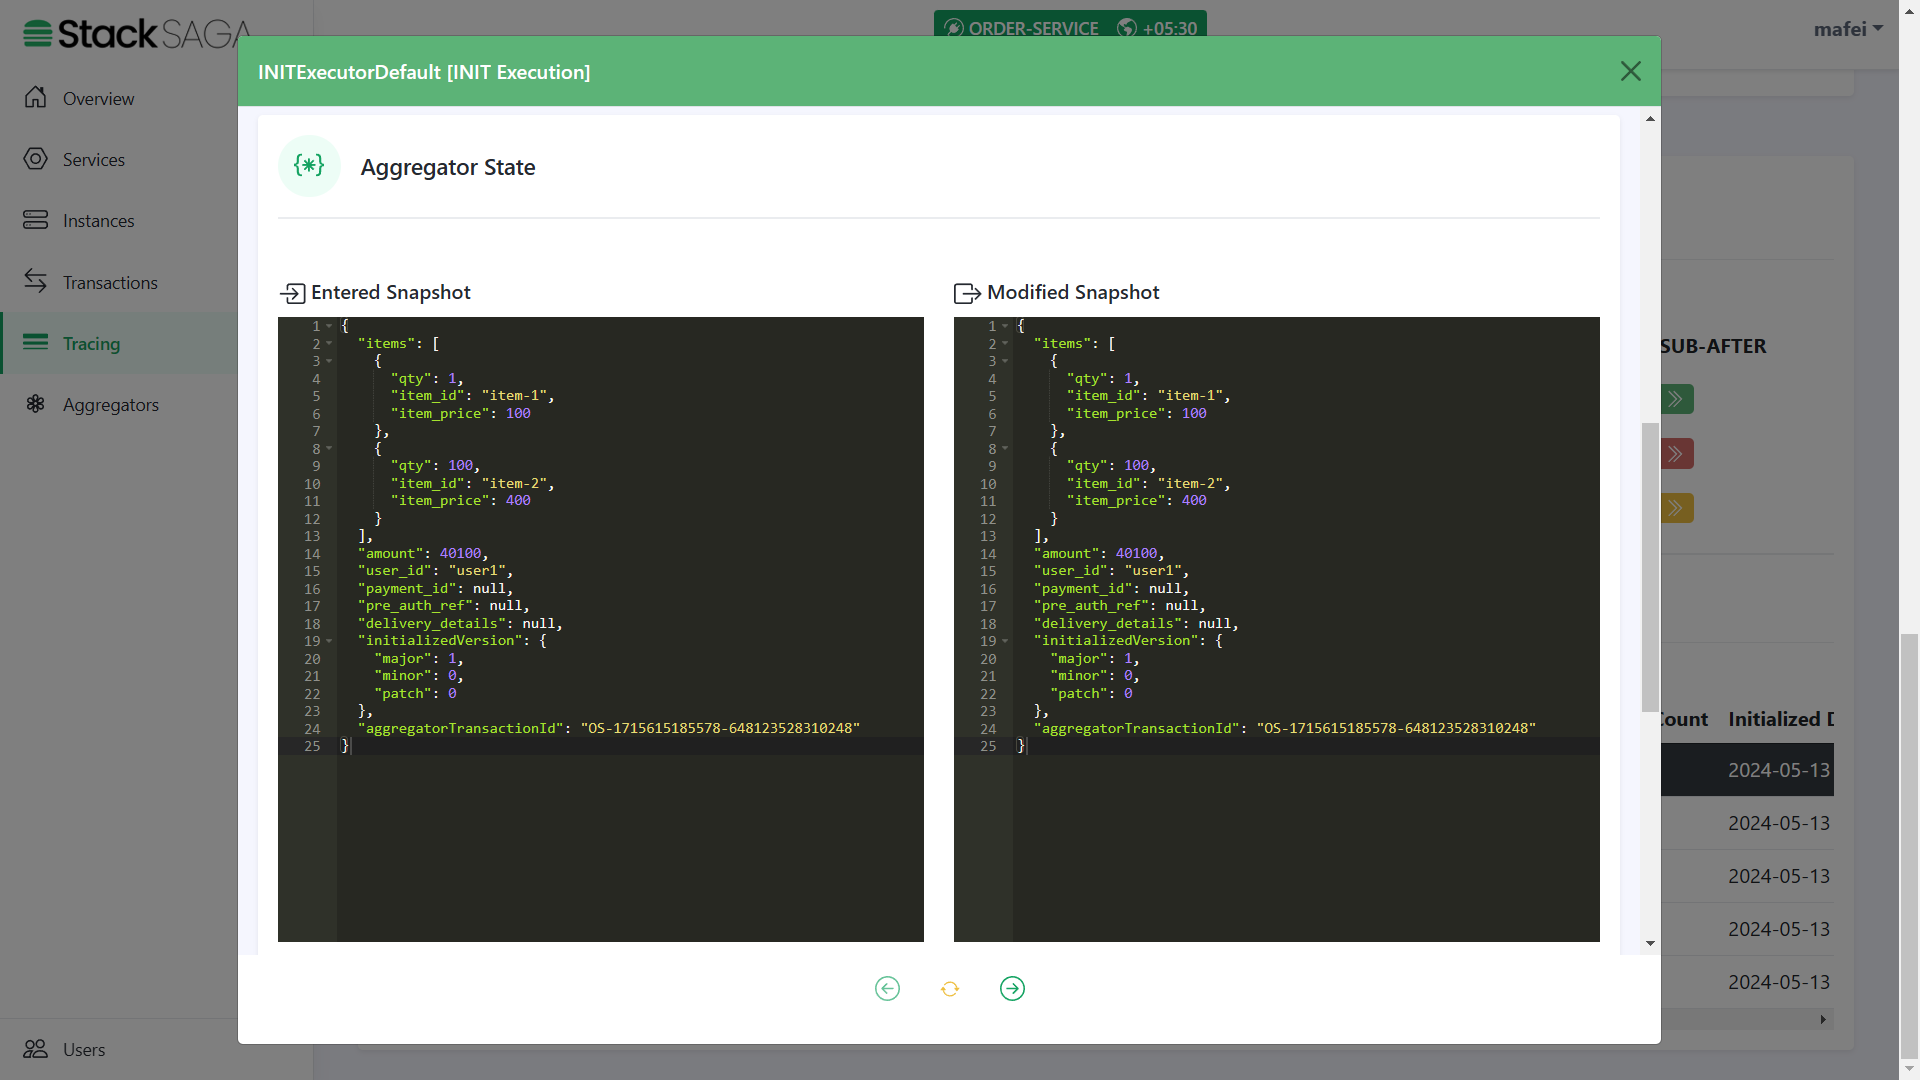
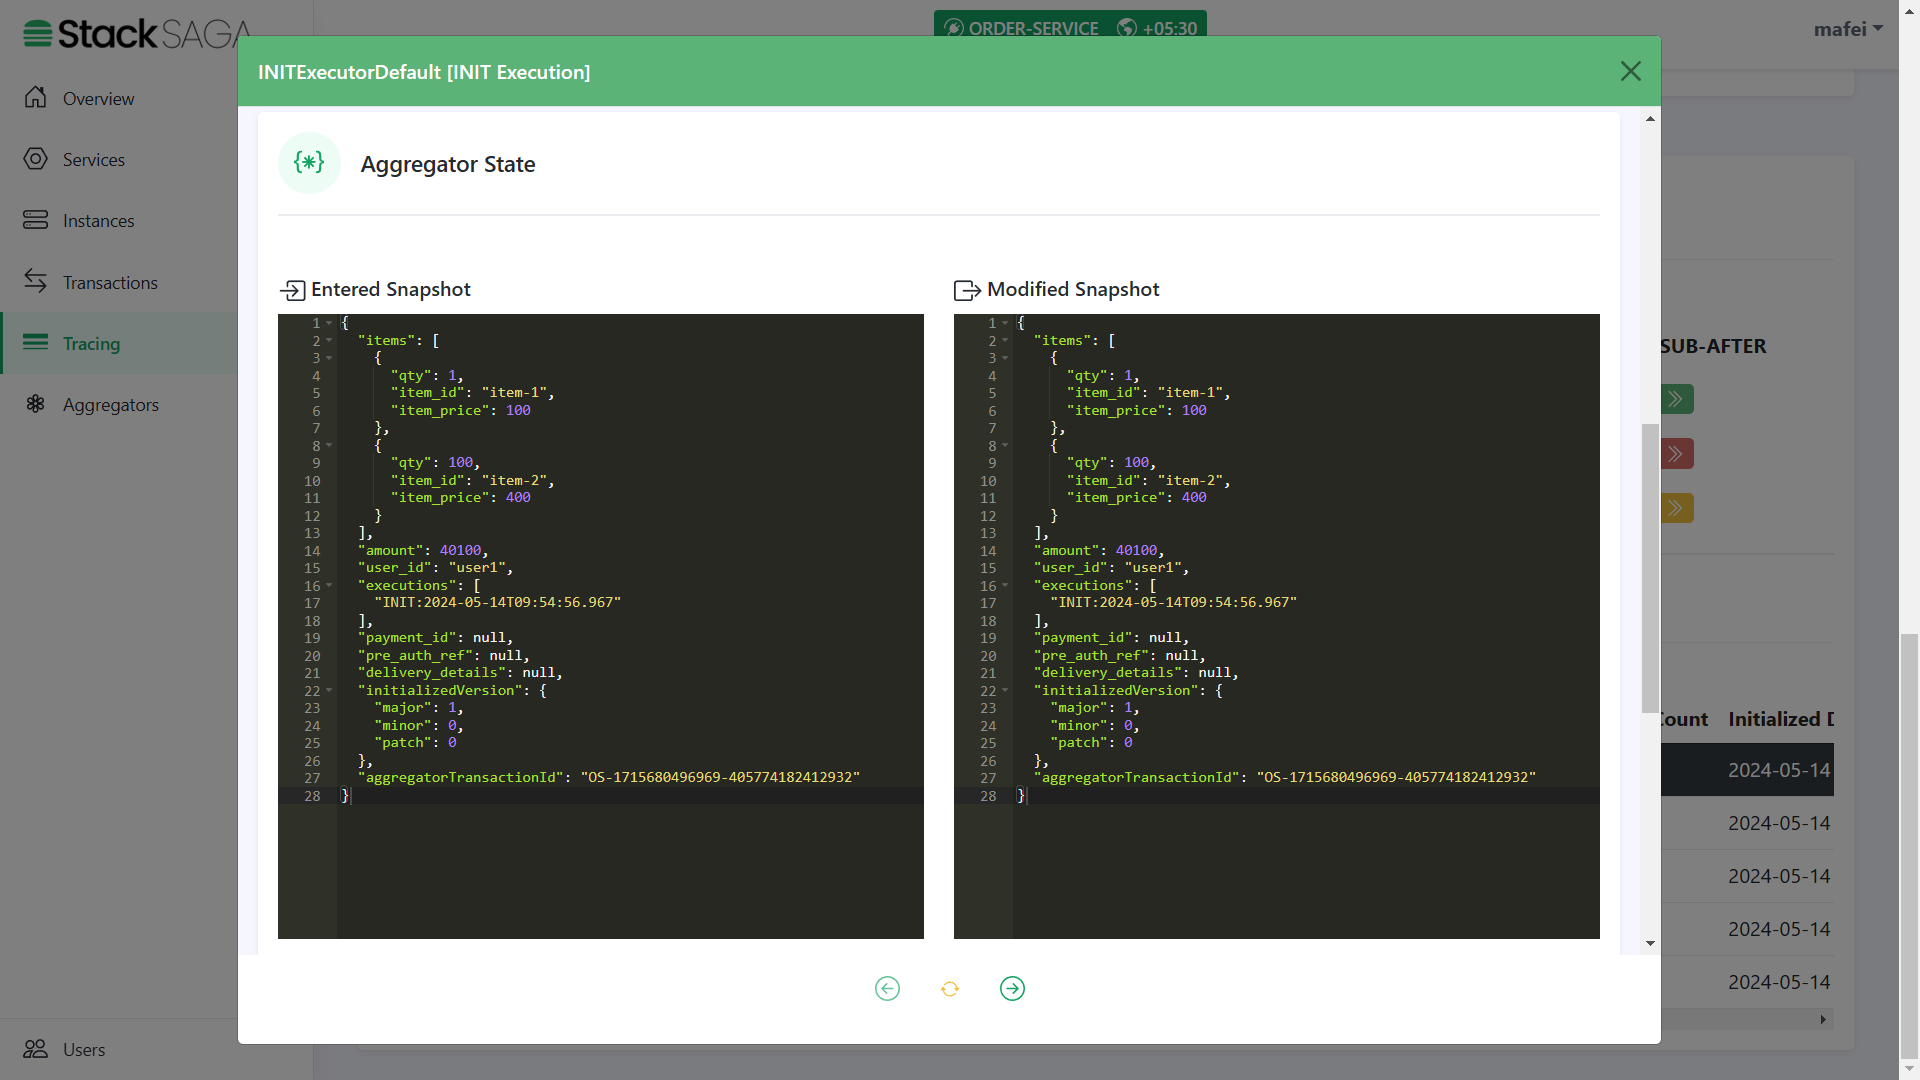
updated the demo's images [revert-success]

diff --git a/docs/modules/quick-examples/pages/application-testing.html b/docs/modules/quick-examples/pages/application-testing.html
@@ -553,11 +553,13 @@ Ant the time they were executed, and how long each executor has spent to execute
 (If the executor is INIExecutorDefault one all the time, the entered aggregator snapshot and modified aggregator snapshot are the same).</p>
 </li>
 <li>
-<p>We can see the initial data that we updated from the <a href="#//">OrderController</a> class in here, and the rest of the data will be updated on the next executors.
+<p>We can see the initial data that we updated from the <a href="#//">OrderController</a> class.
+And the rest of the data will be updated on the next executors.
 In addition to that, there are two properties called <code>aggregatorTransactionId</code> and <code>initializedVersion</code>.
 You know the <code>aggregatorTransactionId</code> is updated after handing over the execution to the <a href="#//">SEC</a>.
 The <code>initializedVersion</code> is provided what was the version of the aggregator (The version that you mention at <code>@SagaAggregator</code> in your Custom Aggregator) when the transaction is started.
-This will help to make the decisions when update your aggregator in the feature. [ See  <a href="../../architecture/pages/version_casting_architecture.html">Aggregator Casting</a> ]</p>
+This will help to make the decisions when update your aggregator in the feature.
+See  <a href="../../architecture/pages/version_casting_architecture.html">Aggregator Casting</a> ]</p>
 </li>
 </ul>
 </div>
@@ -575,9 +577,9 @@ This will help to make the decisions when update your aggregator in the feature.
 <ul>
 <li>
 <p>The entered aggregator state is the one that came to the executor after the last execution.
-Therefore, the <code>delivery_details</code> is <code>null</code> when.
-And on the right side you can see the modified aggregator state after executing the <code>UserDetailExecutor</code>.
-There you can see the <code>delivery_details</code> was updated due to the UserDetailExecutor has been executed successfully.</p>
+Therefore, the <code>delivery_details</code> is <code>null</code> and <code>executions</code> list has only one data.
+And on the right side, you can see the modified aggregator state after executing the <code>UserDetailExecutor</code>.
+There you can see the <code>delivery_details</code> was updated, and the name of the executor was added to the <code>executions</code> list (The 2nd one) due to the UserDetailExecutor has been executed successfully.</p>
 </li>
 </ul>
 </div>
@@ -595,7 +597,7 @@ There you can see the <code>delivery_details</code> was updated due to the UserD
 <ul>
 <li>
 <p>The entered state of the aggregator is equal to the modified aggregator state of the last executor called <code>UserDetailExecutor</code>.
-And after executing the <code>OrderInitializeExecutor</code> you cannot see any different because we only executed the executor, and we did not make any changes into the aggregator.</p>
+And after executing the <code>OrderInitializeExecutor</code>, the name of the executor was added to the <code>executions</code> list (The 3rd one).</p>
 </li>
 </ul>
 </div>
@@ -613,7 +615,8 @@ And after executing the <code>OrderInitializeExecutor</code> you cannot see any 
 <ul>
 <li>
 <p>The entered state of the aggregator is equal to the modified aggregator state of the last executor called <code>OrderInitializeExecutor</code>.
-And after successfully executing the <code>PreAuthExecutor</code> you can see that the <code>pre_auth_ref</code> was updated at the modified aggregator state.</p>
+And after successfully executing the <code>PreAuthExecutor</code> you can see that the <code>pre_auth_ref</code> was updated at the modified aggregator state.
+And the name of the executor was added to the <code>executions</code> list (The 4th one)</p>
 </li>
 </ul>
 </div>
@@ -627,21 +630,47 @@ And after successfully executing the <code>PreAuthExecutor</code> you can see th
 <div class="ulist">
 <ul>
 <li>
-<p>The entered state of the aggregator is equal to the modified aggregator state of the last executor called <code>PreAuthExecutor</code>.</p>
+<p>The entered state of the aggregator is equal to the modified aggregator state of the last executor called <code>PreAuthExecutor</code>.
+And after successfully executing the <code>StockUpdateExecutor</code> you can see that the name of the executor was added to the <code>executions</code> list (The 5th one).</p>
 </li>
 </ul>
 </div>
 <div class="paragraph">
+<p><em>As we navigated in the <code>StockUpdateExecutor</code>, the next executor should be <code>MakePaymentExecutor</code>.</em></p>
+</div>
+<div class="paragraph">
+<div class="title"><strong>MakePaymentExecutor Aggregator State</strong></div>
 <p><span class="image"><img src="../images/stacksaga-demo-executor-6.png" alt="stacksaga demo executor 6"></span></p>
+</div>
+<div class="ulist">
+<ul>
+<li>
+<p>The entered state of the aggregator is equal to the modified aggregator state of the last executor called <code>StockUpdateExecutor</code>.
+And after successfully executing the <code>MakePaymentExecutor</code> you can see that the <code>payment_id</code> was updated.
+And name of the executor was added to the <code>executions</code> list (The 6th one).</p>
+</li>
+</ul>
 </div>
 </div>
 <div class="sect2">
 <h3 id="_revert_success_transaction">Revert Success Transaction</h3>
 <div class="paragraph">
+<p>Let&#8217;s look at such a scenario one of primary executions is fielded with non-retryable exception.
+You can remember that in the <code>PreAuthExecutor</code> we caught the <code>FORBIDDEN</code> exception that sends by the <code>payment-service</code>
+if the user&#8217;s wallet has no balance to make the pre-auth.
+In this testing, let&#8217;s place an order with a higher amount than the wallet has.</p>
+</div>
+<div class="paragraph">
 <p><span class="image"><img src="../images/place-order-api-test-revert-success.png" alt="place order api test revert success"></span></p>
 </div>
 <div class="paragraph">
 <p><span class="image"><img src="../images/stacksaga-place-order-api-test-tracing-summary-revert-success.png" alt="stacksaga place order api test tracing summary revert success"></span></p>
+</div>
+<div class="paragraph">
+<p><span class="image"><img src="../images/stacksaga-demo-executor-1-revert-success-error-log.png" alt="stacksaga demo executor 1 revert success error log"></span></p>
+</div>
+<div class="paragraph">
+<p><span class="image"><img src="../images/stacksaga-place-order-api-test-execution-summary-revert-success.png" alt="stacksaga place order api test execution summary revert success"></span></p>
 </div>
 <div class="paragraph">
 <p><span class="image"><img src="../images/stacksaga-demo-executor-1-revert-success.png" alt="stacksaga demo executor 1 revert success"></span></p>
@@ -659,10 +688,13 @@ And after successfully executing the <code>PreAuthExecutor</code> you can see th
 <p><span class="image"><img src="../images/stacksaga-demo-executor-4-1-revert-success.png" alt="stacksaga demo executor 4 1 revert success"></span></p>
 </div>
 <div class="paragraph">
-<p><span class="image"><img src="../images/stacksaga-demo-executor-4-revert-success.png" alt="stacksaga demo executor 4 revert success"></span></p>
+<p><span class="image"><img src="../images/stacksaga-demo-executor-4-2-revert-success.png" alt="stacksaga demo executor 4 2 revert success"></span></p>
 </div>
 <div class="paragraph">
-<p><span class="image"><img src="../images/stacksaga-demo-executor-4-2-revert-success.png" alt="stacksaga demo executor 4 2 revert success"></span></p>
+<p><span class="image"><img src="../images/stacksaga-demo-executor-4-3-revert-success.png" alt="stacksaga demo executor 4 3 revert success"></span></p>
+</div>
+<div class="paragraph">
+<p><span class="image"><img src="../images/stacksaga-demo-executor-4-4-revert-success.png" alt="stacksaga demo executor 4 4 revert success"></span></p>
 </div>
 </div>
 </div>
@@ -670,7 +702,7 @@ And after successfully executing the <code>PreAuthExecutor</code> you can see th
 </div>
 <div id="footer">
 <div id="footer-text">
-Last updated 2024-05-14 13:41:51 +0530
+Last updated 2024-05-14 15:46:20 +0530
 </div>
 </div>
 </body>
